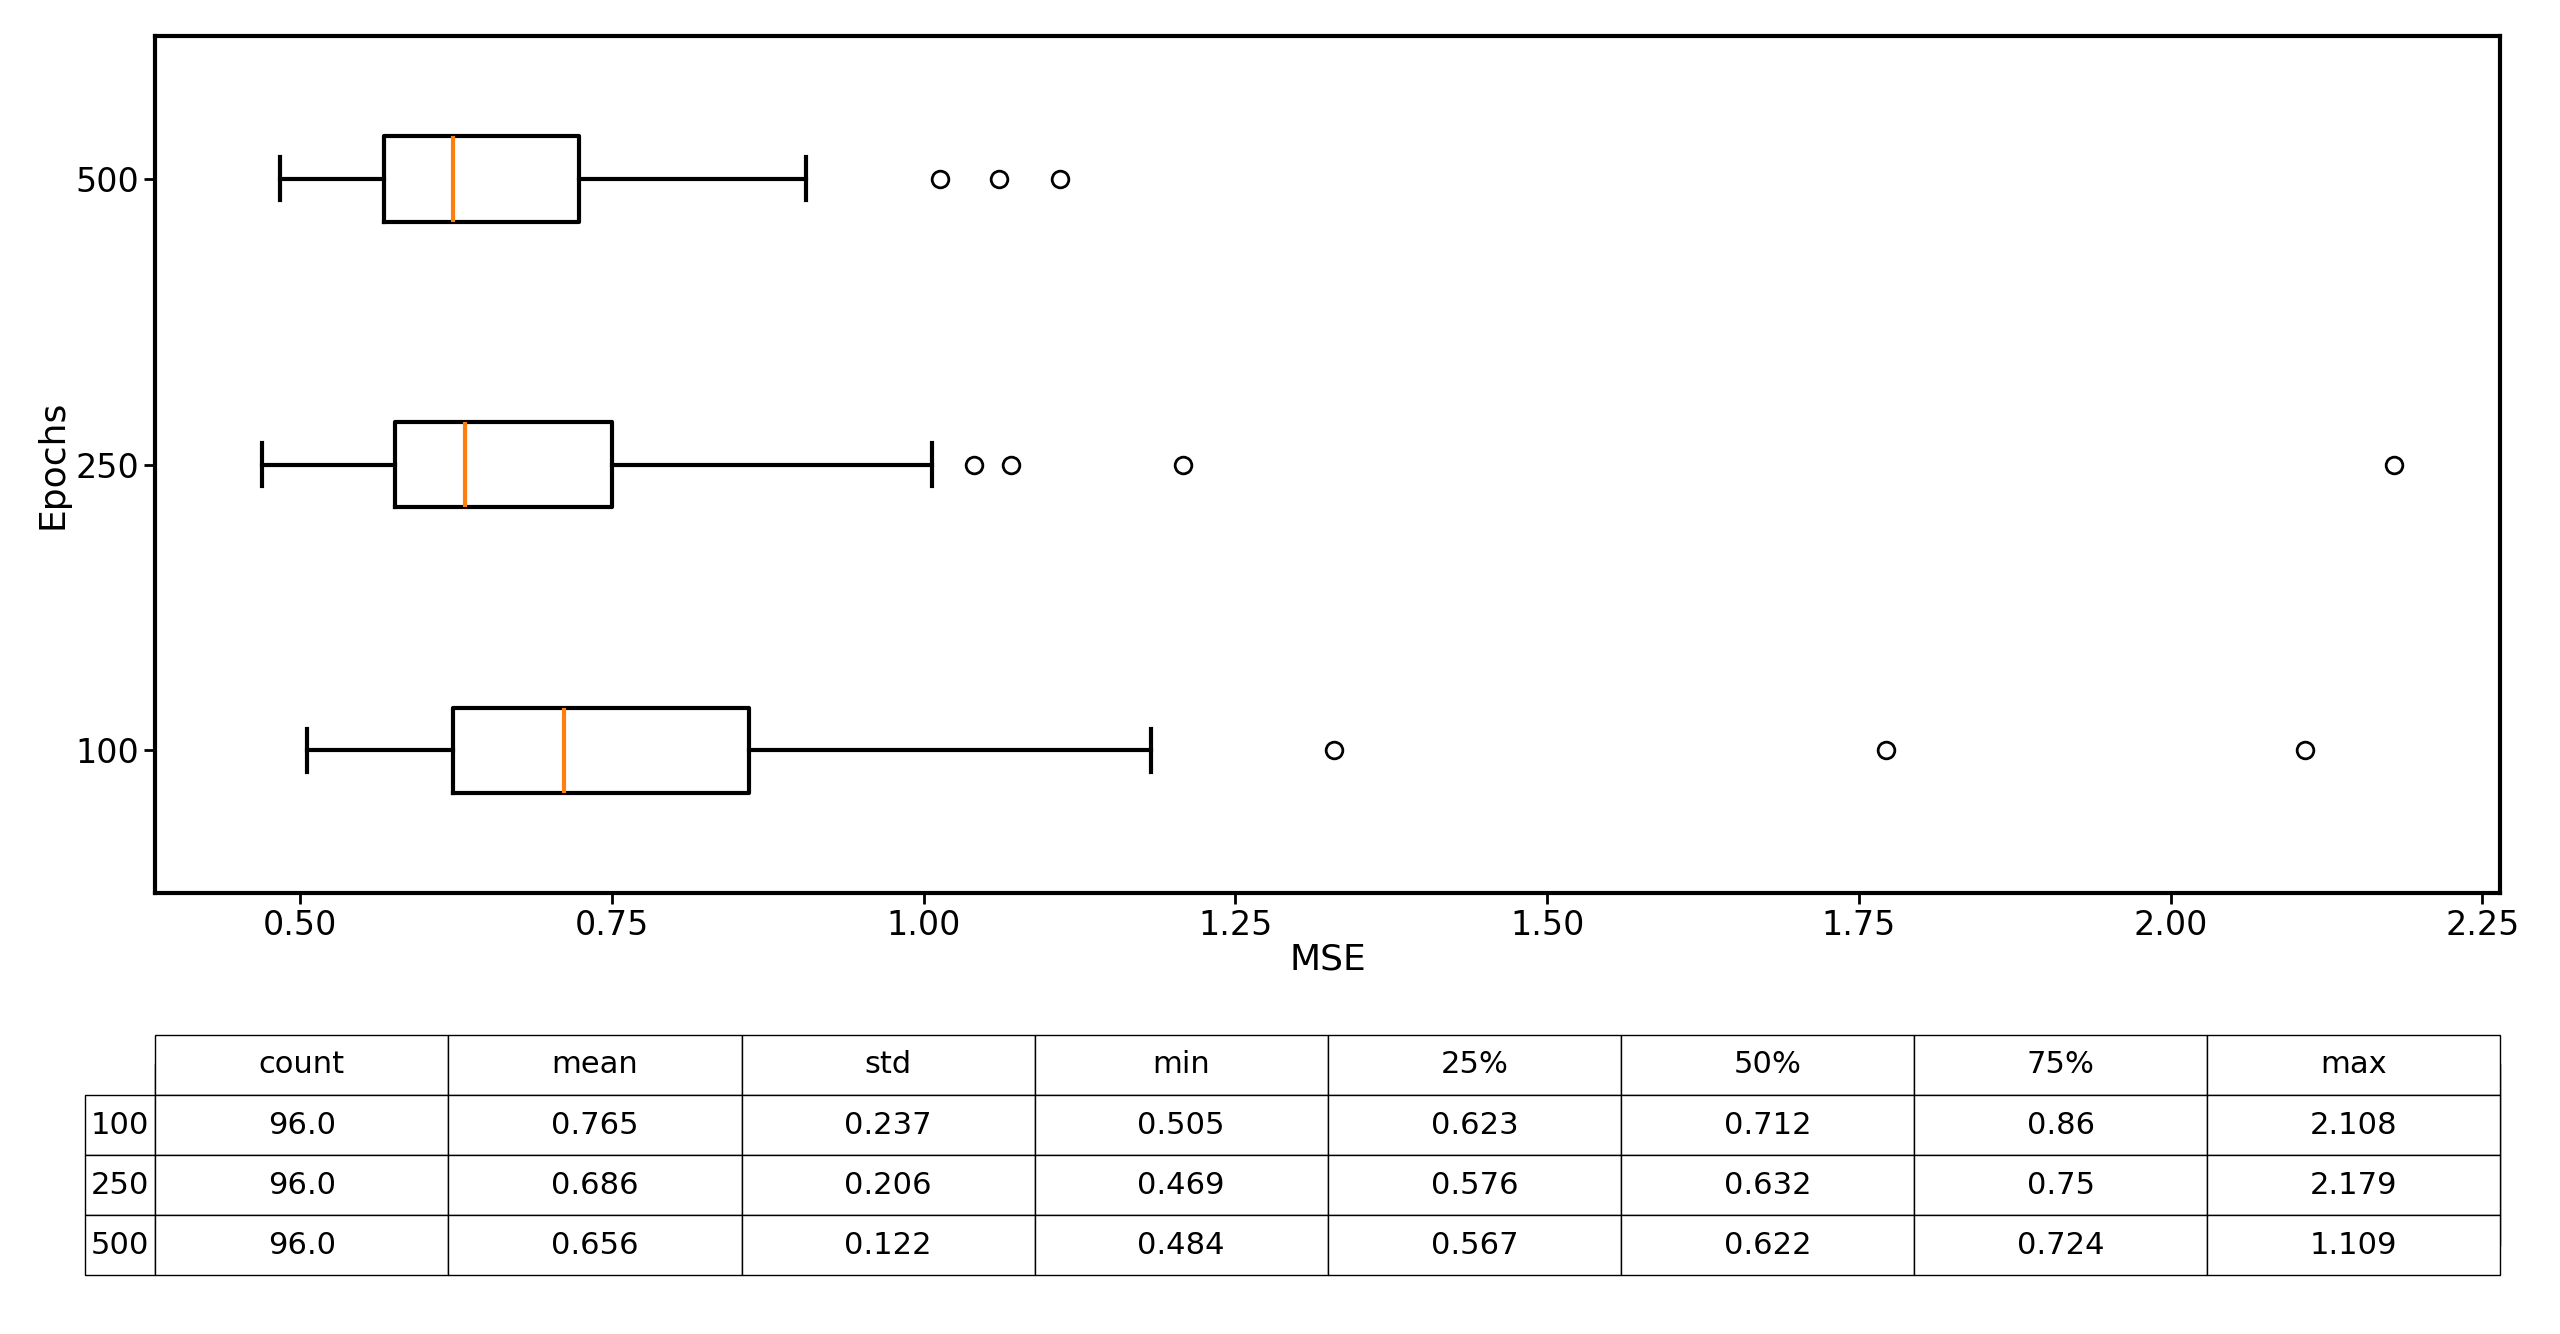
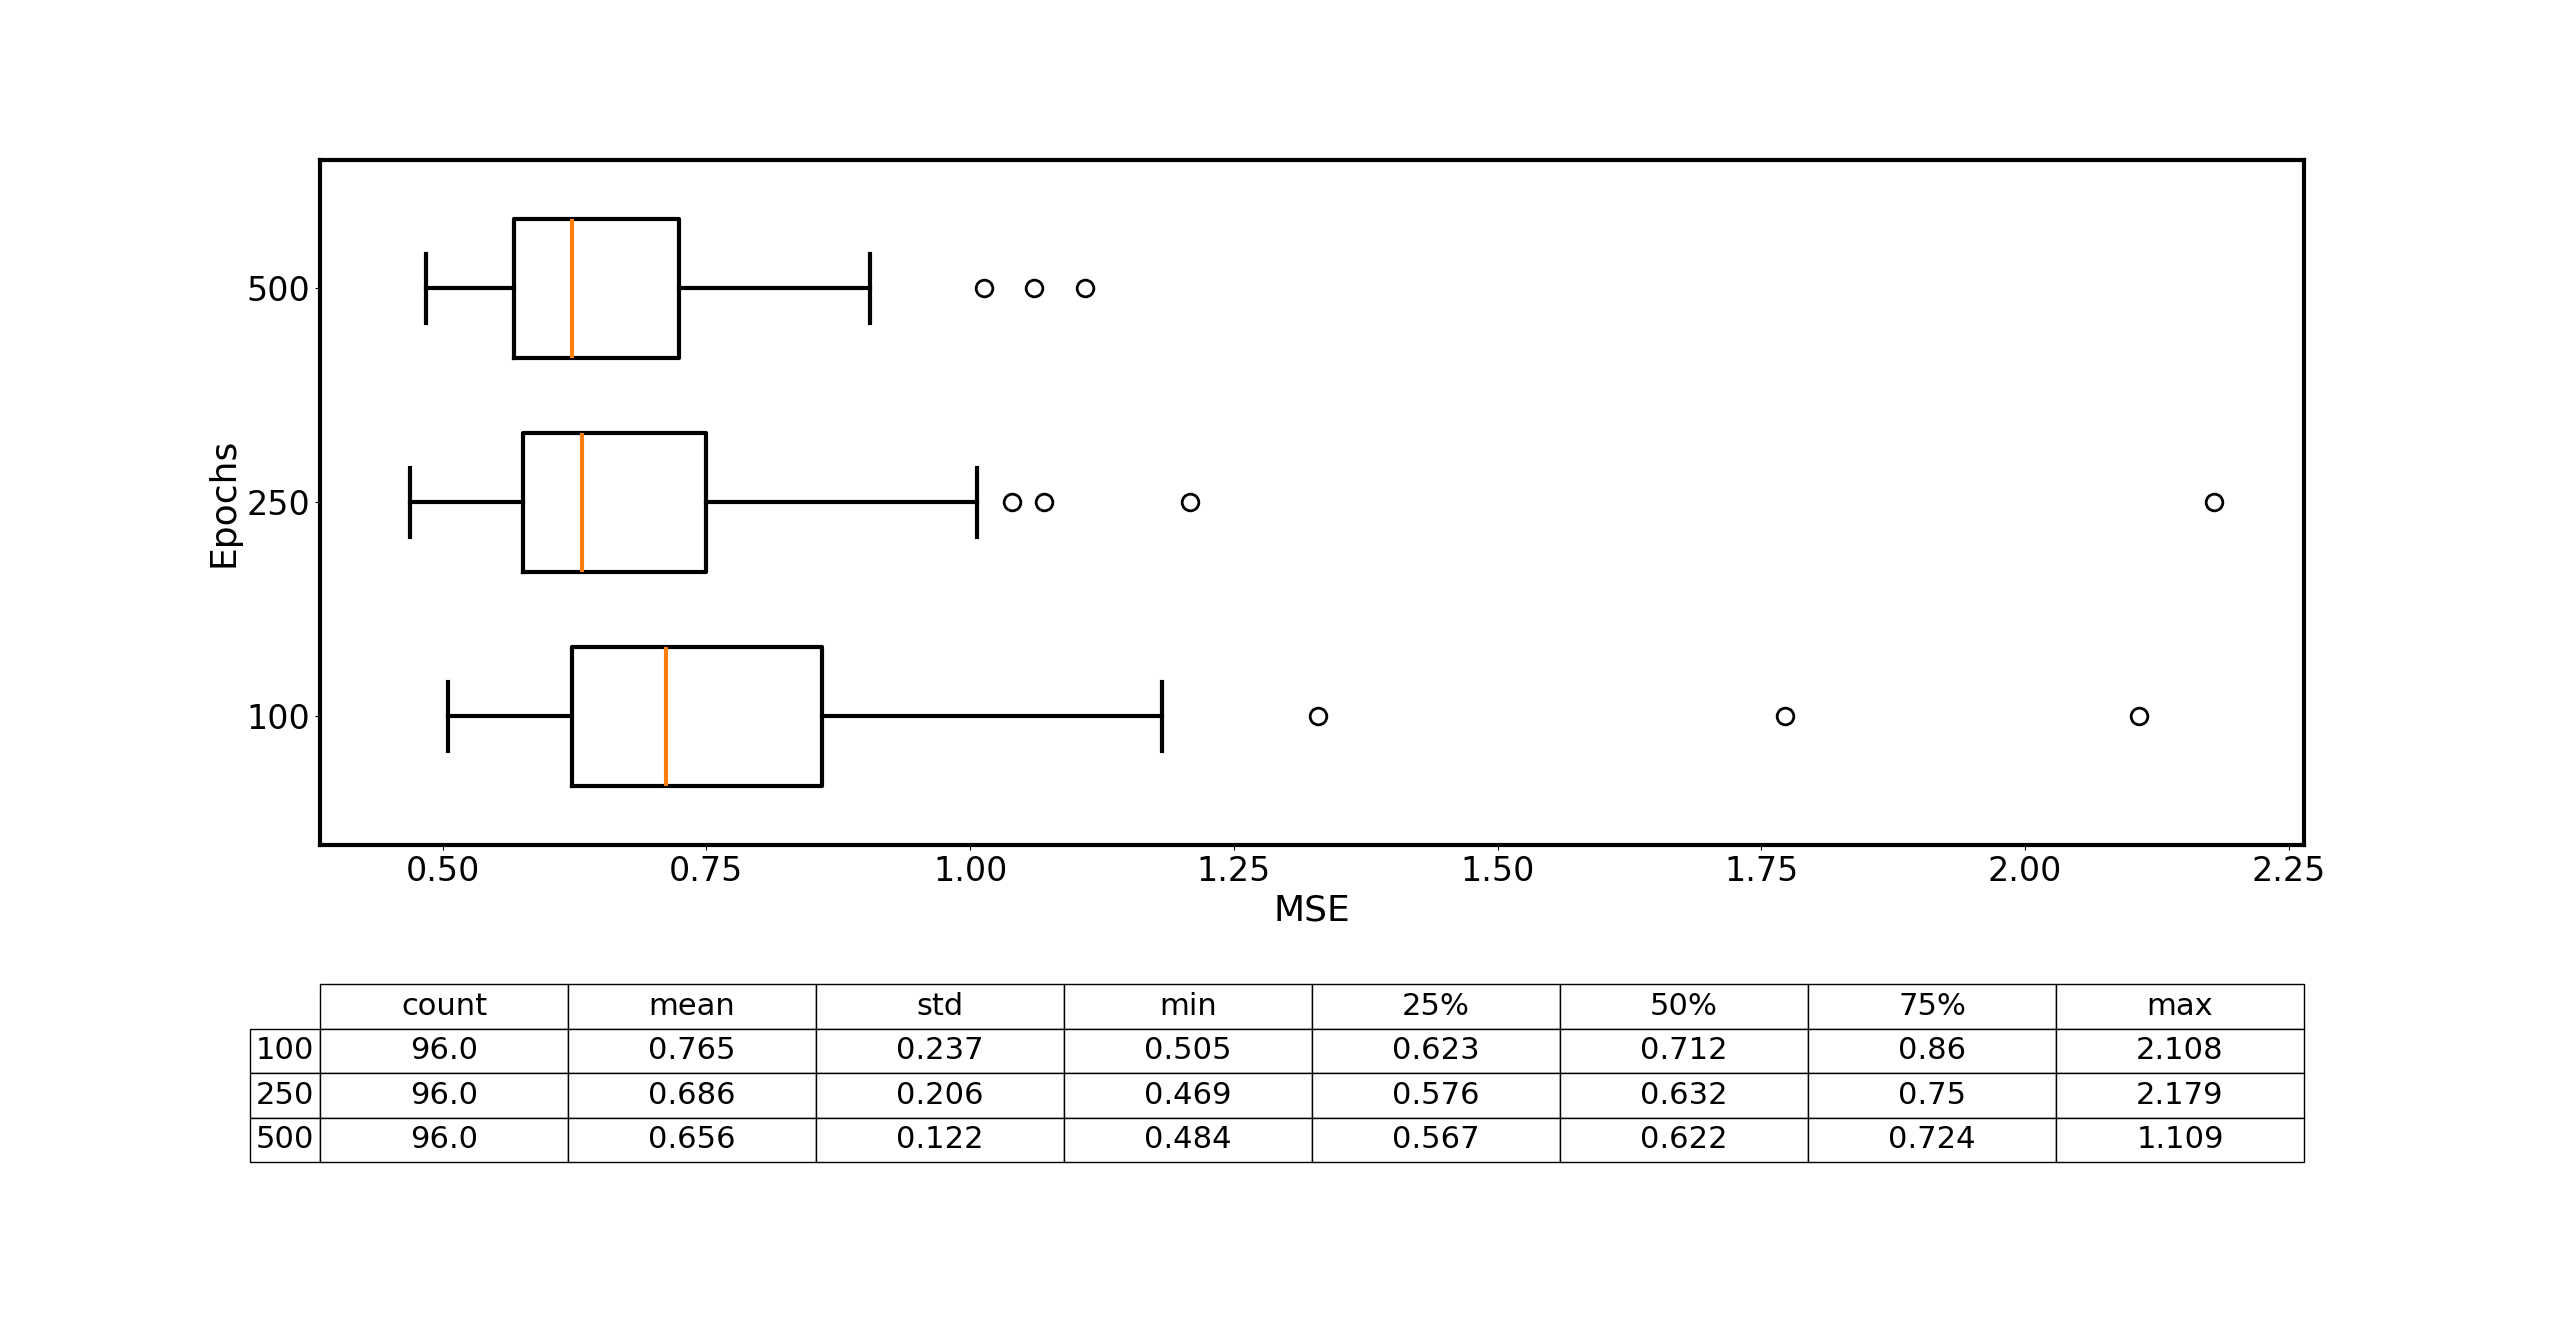
Made changes

diff --git a/boxplot_epochs.py b/boxplot_epochs.py
@@ -44,40 +44,47 @@ summary = (pd.DataFrame({"100":  pd.Series(epoch_100).describe(),
            .T.round(3))
 
 
-fig, (ax_box, ax_tbl) = plt.subplots(2, 1, figsize=(8, 6),        
-                                     gridspec_kw={'height_ratios':[3, 1]})  
+gap = .35                          # distance you want between boxes
+pos = [1, 1+gap, 1+2*gap]          # 1 → 1.35 → 1.70
 
-ax_box.boxplot([epoch_100, epoch_250, epoch_500],                            
-               vert=False,
-               labels=["100", "250", "500"],
-               boxprops=dict(linewidth=3),
-               whiskerprops=dict(linewidth=3),
-               capprops=dict(linewidth=3),
-               medianprops=dict(linewidth=3),
-               flierprops=dict(marker='o', markersize=12,
-                               markerfacecolor='none',
-                               markeredgecolor='black',
-                               markeredgewidth=2))
+fig, (ax_box, ax_tbl) = plt.subplots(
+    2, 1, figsize=(8, 5),
+    gridspec_kw={'height_ratios':[3,1], 'hspace':0.25}
+)
 
-ax_box.set_xlabel("MSE", labelpad=0)                             
-ax_box.set_ylabel("Epochs")                                         
-ax_box.tick_params(axis='both', which='both', width=2, length=8)  
+# --- compact box‑plot -------------------------------------------------
+ax_box.boxplot(
+    [epoch_100, epoch_250, epoch_500],
+    vert=False,
+    positions=pos,                 # <<–––– here
+    widths=gap*0.65,               # a bit narrower than the gap
+    boxprops     =dict(linewidth=3),
+    whiskerprops =dict(linewidth=3),
+    capprops     =dict(linewidth=3),
+    medianprops  =dict(linewidth=3),
+    flierprops   =dict(marker='o', markersize=12,
+                       markerfacecolor='none',
+                       markeredgecolor='black',
+                       markeredgewidth=2)
+)
 
+ax_box.set_xlabel('MSE')
+ax_box.set_ylabel('Epochs')
 
-ax_tbl.axis('off')                                                
-ax_tbl.table(cellText=summary.values,
-             rowLabels=summary.index,
-             colLabels=summary.columns,
-             cellLoc='center', rowLoc='center',
-             loc='center')                                    
+ax_box.set_yticks(pos)
+ax_box.set_yticklabels(['100', '250', '500'])
 
-fig.tight_layout(pad=2)                                        
+# keep just a sliver of padding above & below the outer boxes
+ax_box.set_ylim(pos[0]-gap*0.6, pos[-1]+gap*0.6)
+
+# ---------------------------------------------------------------------
+ax_tbl.axis('off')
 tbl = ax_tbl.table(cellText=summary.values,
                    rowLabels=summary.index,
                    colLabels=summary.columns,
                    cellLoc='center', rowLoc='center',
                    loc='center')
+tbl.auto_set_font_size(False)
+tbl.set_fontsize(22)
 
-tbl.auto_set_font_size(False) 
-tbl.set_fontsize(22)          
 plt.show()

diff --git a/analysis.py b/analysis.py
@@ -1,32 +1,73 @@
 import pandas as pd
-import numpy as np
 import matplotlib.pyplot as plt
-import re
+
+plt.rcParams.update({
+    "font.size": 9,
+    "axes.titlesize": 9, #Nothing
+    "axes.labelsize": 8.6, #Bottom MSE text
+    "xtick.labelsize": 8, #x tick marks
+    "ytick.labelsize": 8, #y tick marks
+    "axes.linewidth": 1, #Rectangle Border
+    "figure.dpi": 300
+})
 
 results = pd.read_csv("results.csv")
-Models = results["Model"]
-MSE = results["MSE"]
-R2 =  results["R^2"]
-MAE =  results["MAE"]
-CV =  results["CV"]
-Count =  results["Count"]
 
-print(MSE.describe())
+summary = (
+    results[['MSE']]            # keep just the one column
+        .describe()             # stats for MSE only
+        .loc[['count', 'mean', 'std', 'min', '25%', '50%', '75%', 'max']]
+        .T.round(3)             # transpose so MSE is the row label
+)
 
+gap = .2                          # distance you want between boxes
+pos = [1]  # just one position          # 1 → 1.35 → 1.70
 
-mse_dict = {}
-for i in range(len(MSE)):
-    mse_dict[Models[i]] = MSE[i]
+fig, (ax_box, ax_tbl) = plt.subplots(
+    2, 1,
+    figsize=(8, 4.5),                    # shorter figure now
+    gridspec_kw={
+        'height_ratios': [1, 1],         # box‑plot axis 5 × taller
+        'hspace': 0.5                    # no GridSpec gap
+    }
+)
 
-sorted_mse_dict = dict(sorted(mse_dict.items(), key=lambda item: item[1]))
-print(sorted_mse_dict)
-# first_ten = dict(list(sorted_mse_dict.items())[10:])
-# # for key in first_ten:
-# #     print(key)
+# ----- boxplot -----
+ax_box.boxplot(
+    results['MSE'],
+    vert=False,
+    tick_labels=[""],
+    boxprops     =dict(linewidth=1),
+    whiskerprops =dict(linewidth=1),
+    capprops     =dict(linewidth=1),
+    medianprops  =dict(linewidth=1),
+    flierprops   =dict(marker='o', markersize=2,
+                       markerfacecolor='none',
+                       markeredgecolor='black',
+                       markeredgewidth=1)
+)
+ax_box.set_xlabel('MSE')
+ax_box.tick_params(axis='both', which='both', width=1, length=4)
 
+ax_box.margins(y=0.01) 
+ax_box.set_yticks([]) 
 
-# plt.boxplot(MSE, vert=False)
-# plt.title("MSE boxplot")
-# plt.xlabel("MSE")
-# plt.yticks([1], [""])  # Remove the '1' label
-# plt.show()
+ax_box.set_ylim(pos[0]-gap*0.6, pos[-1]+gap*0.6)
+
+# ----- summary table -----
+ax_tbl.axis('off')                        # hide the axis frame
+tbl = ax_tbl.table(
+    cellText  = summary.values,
+    rowLabels = summary.index,
+    colLabels = summary.columns,
+    cellLoc='center', rowLoc='center',
+    loc='upper center'                    # stick table to the top
+)
+tbl.auto_set_font_size(False)
+tbl.set_fontsize(7)
+
+# NO tight_layout() – it would re‑insert spacing
+fig.subplots_adjust(hspace=0)             # safety – keep axes touching
+
+plt.show()
+

diff --git a/scatter.py b/scatter.py
@@ -1,0 +1,31 @@
+import pandas as pd
+import numpy as np
+import matplotlib.pyplot as plt
+import re
+
+plt.rcParams.update({
+    "font.size": 9,
+    "axes.titlesize": 9, #Nothing
+    "axes.labelsize": 8.6, #Bottom MSE text
+    "xtick.labelsize": 8, #x tick marks
+    "ytick.labelsize": 8, #y tick marks
+    "axes.linewidth": 1, #Rectangle Border
+    "figure.dpi": 300
+})
+
+results = pd.read_csv("results.csv")
+Models = results["Model"]
+MSE = results["MSE"]
+R2 =  results["R^2"]
+MAE =  results["MAE"]
+CV =  results["CV"]
+Count =  results["Count"]
+
+plt.scatter(MSE, MAE, s=3)
+plt.xlabel("Mean Standard Error")
+plt.ylabel("Mean Absolute Error")
+
+plt.show()
+
+correlation = MSE.corr(MAE)
+print("Correlation coefficient:", correlation)

diff --git a/boxplot_lr.py b/boxplot_lr.py
@@ -87,4 +87,3 @@ plt.show()
 
 
 
-

diff --git a/boxplot_optimizer.py b/boxplot_optimizer.py
@@ -79,4 +79,3 @@ plt.show()
 
 
 
-
